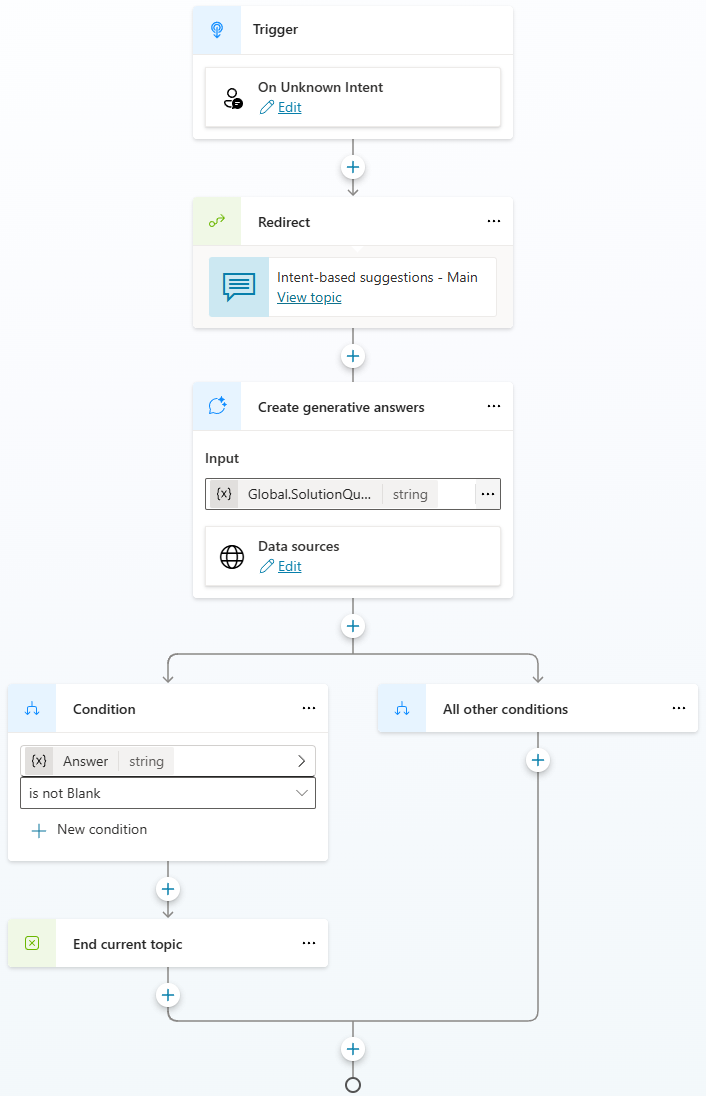
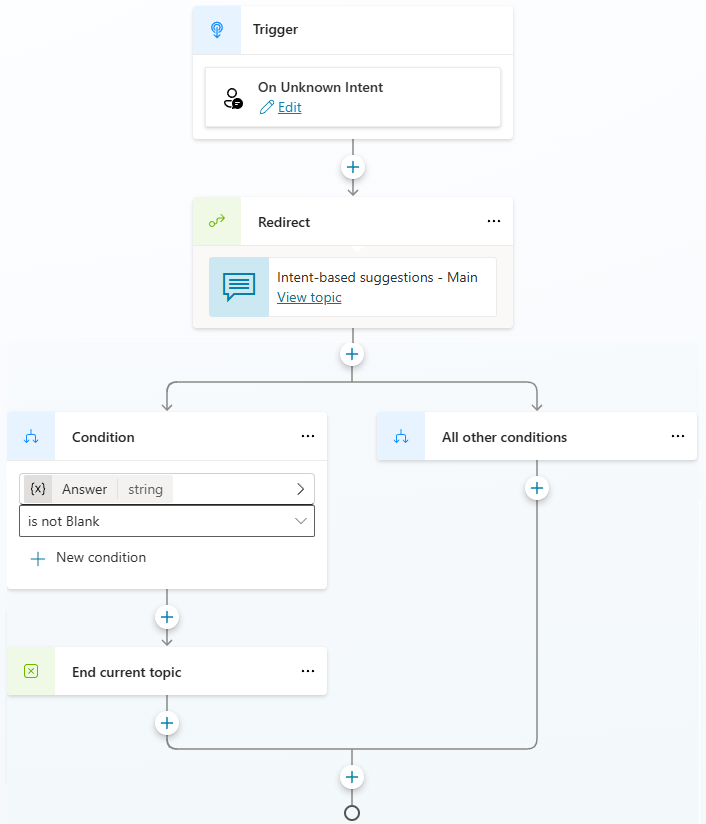
Edits

diff --git a/contact-center/administer/set-up-intent-agent.md b/contact-center/administer/set-up-intent-agent.md
@@ -6,7 +6,7 @@ ms.author: sdas
 ms.reviewer: Soumyasd27
 ms.topic: how-to
 ms.collection:
-ms.date: 06/18/2025
+ms.date: 07/24/2025
 ms.custom: bap-template
 ---
 
@@ -80,7 +80,6 @@ To use Customer Intent Agent, you need to connect your Copilot agent to a knowle
 1. In your existing topic flow, where you want to use Customer Intent Agent, add the following node:
      - **Topic management** > **Go to another topic** > **Intent-based suggestions – Main**.
      - For a default agent, add this node to either the **Conversational boosting** or **Fallback** system topic that triggers from the **On Unknown Intent** topic.
-1. Add another node: **Advanced** > **Create generative answers**, and select **SolutionQuery for Input**. Adding a **SolutionQuery** helps generate information from the determined intent and answered questions to search knowledge sources for a solution response. Ensure you edit your data sources and check all the sources you want to search against for an answer.
 1. Add another node: **Add a condition**, and set **Answer** variable to **is not Blank**.
 1. To add logic to complete the conversation flow after providing an answer, add another node: **Topic management** > **Go to another topic** > **End current topic**.
 
@@ -92,29 +91,20 @@ Connect the knowledge articles in your Dynamics 365 instance to your Copilot age
 
 Make sure that you add the new flow you created in Power Automate, called **Generate answer from Dataverse knowledge articles for Power Virtual Agent**. Follow the steps provided in the [Connect to intent-based suggestions](#connect-to-intent-based-suggestions) section, and replace the **Create generative answers** node with the new flow.
 
-### Intent-based suggestions output variables
+## Variables for intent-based suggestions
 
-This section lists the output variables from Customer Intent Agent that provide information about the status of intent determination and interview. Depending on your use case, you can customize these variables for specific situations.
 
-|Variable  |Scenario |
-|---------|---------|
-|Global.IntentInterviewComplete    |  If set to true, ensures that the intent is determined and all the interview questions were answered.       |
-|Global.IntentInterviewIncomplete    |   If set to true, indicates that the intent is determined but not all interview questions were answered. You can still query knowledge based on the information gathered, but you might choose a different behavior.  |
-|Global.IntentUndetected     |    If set to true, indicates that a known intent from the intent library wasn't detected, or was detected but rejected by the customer. |
-|Global.IntentDetectedWithoutAttributes  |  If set to true, indicates that an intent has been successfully detected, but there are no associated interview questions to ask the user. A solutionQuery is still generated and available for use.  |
-|Global.IntentError    |     If set to true, indicates that there was an error in detecting intent. The issue could be transitory like a time-out, but if it's consistent, we recommend that you disable intent-based suggestions and contact support. | 
-
-## Variables in the Intent-based suggestions - Configuration topic
-
-The **Intent-based suggestions - Configuration** is a noncustomizable topic that contains a list of variables that can be overwritten to provide the desired behavior. Here's a list of variables in the topic. 
-
-|Variable  |Default |Description  |
+|Variable |Mapped system topic| Description|
 |---------|---------|---------|
-|Global.EnableIntentConfirmation    |    False     |      If enabled, agent asks the customer to confirm the intent before moving on to the intent attributes questions.    |
-|Global.EnableIntentRephrase     |   False      |    If enabled, and if intent can't be determined or intent isn't confirmed by customer, customers are asked to rephrase their issue.      |
-|Global.RephraseCount     |     1    |   Determines how many times customers are asked to rephrase the issue.|
-|Global.MaxRepetitionCount    |  2      | Sets the maximum number of times the agent repeats an interview question with the same attributes. If the user doesn't provide a valid response on the first attempt, the agent asks the question again. If the user still doesn't answer, the agent moves to the next question. |
-|Global.EnableAskAllQuestions     |   False       |    If enabled, asks all intent-attribute questions before ending the loop, regardless of whether the customer answers the question in the next turn. If disabled, as soon as the customer doesn’t answer an intent attribute question, ends the loop (a solution query is still generated and generated answers are still initiated).      |
+|Global.IntentRedirectOnResolutionConfirmation|  EndOfConversation |  Check if the resolution fixed the issue. |
+|Global.IntentRedirectOnUnknownIntent    |  Escalate |  Hand off as no intent is found.|
+|Global.IntentRedirectOnUnableToProceed |Escalate |  Hand off when the conversation is stuck. |
+|Global.IntentRedirectOnEscalate    | Escalate  | Hand off to a representative.|
+|Global.IntentRedirectOnError |  Escalate  |  Hand off due to service error.|
+
+> [!NOTE]
+> If the Copilot agent doesn't have any of the mapped system topics, override them with the correct mapping.
+
 
 ### Override default variable
 
